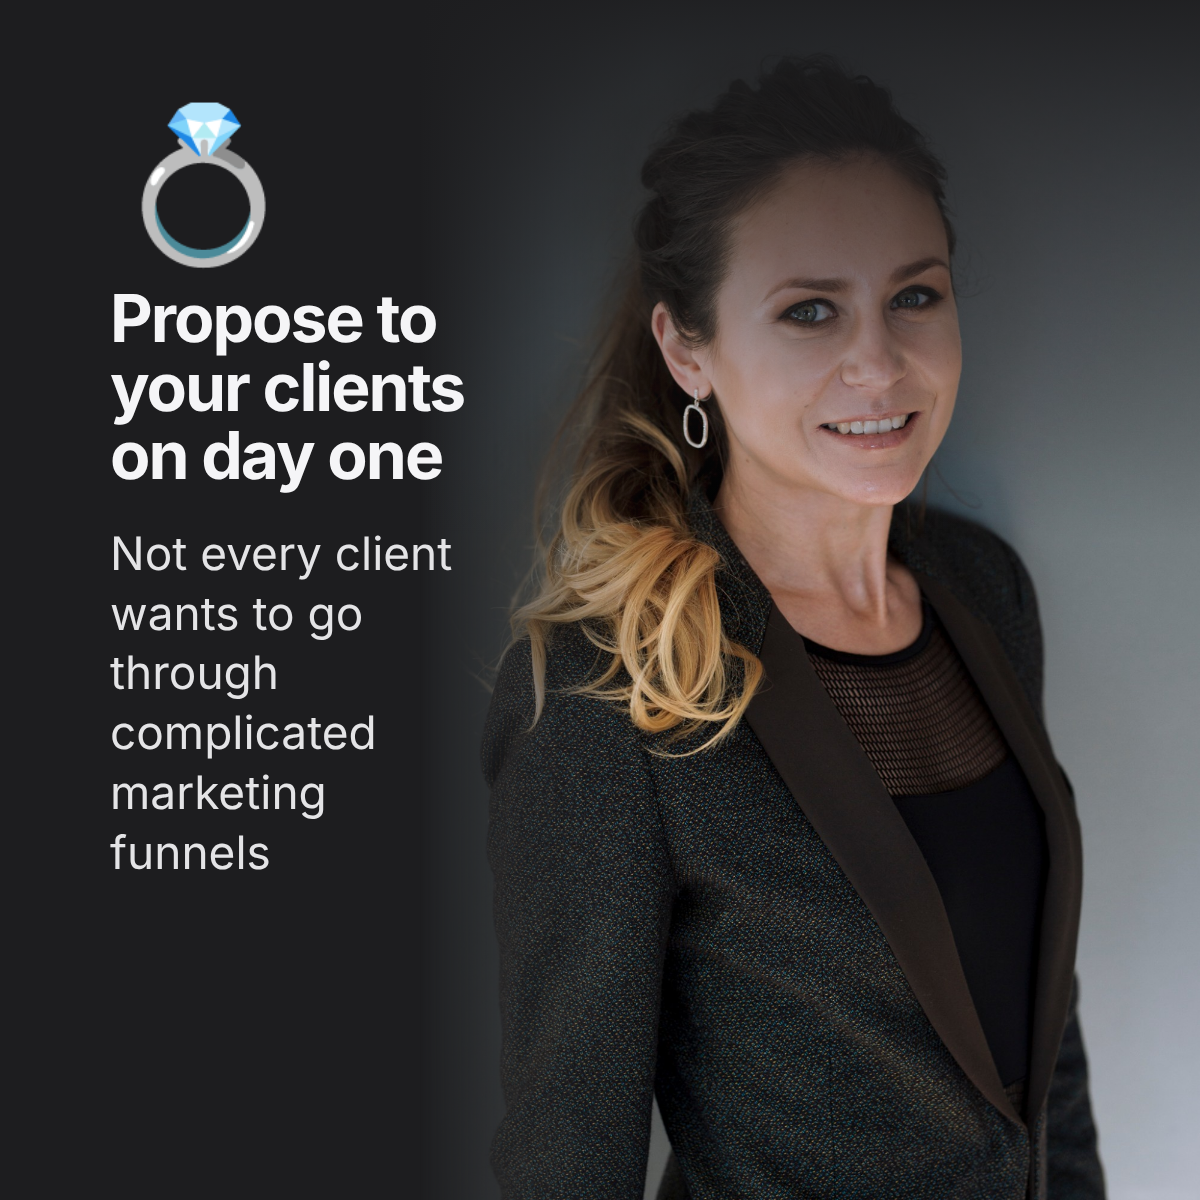
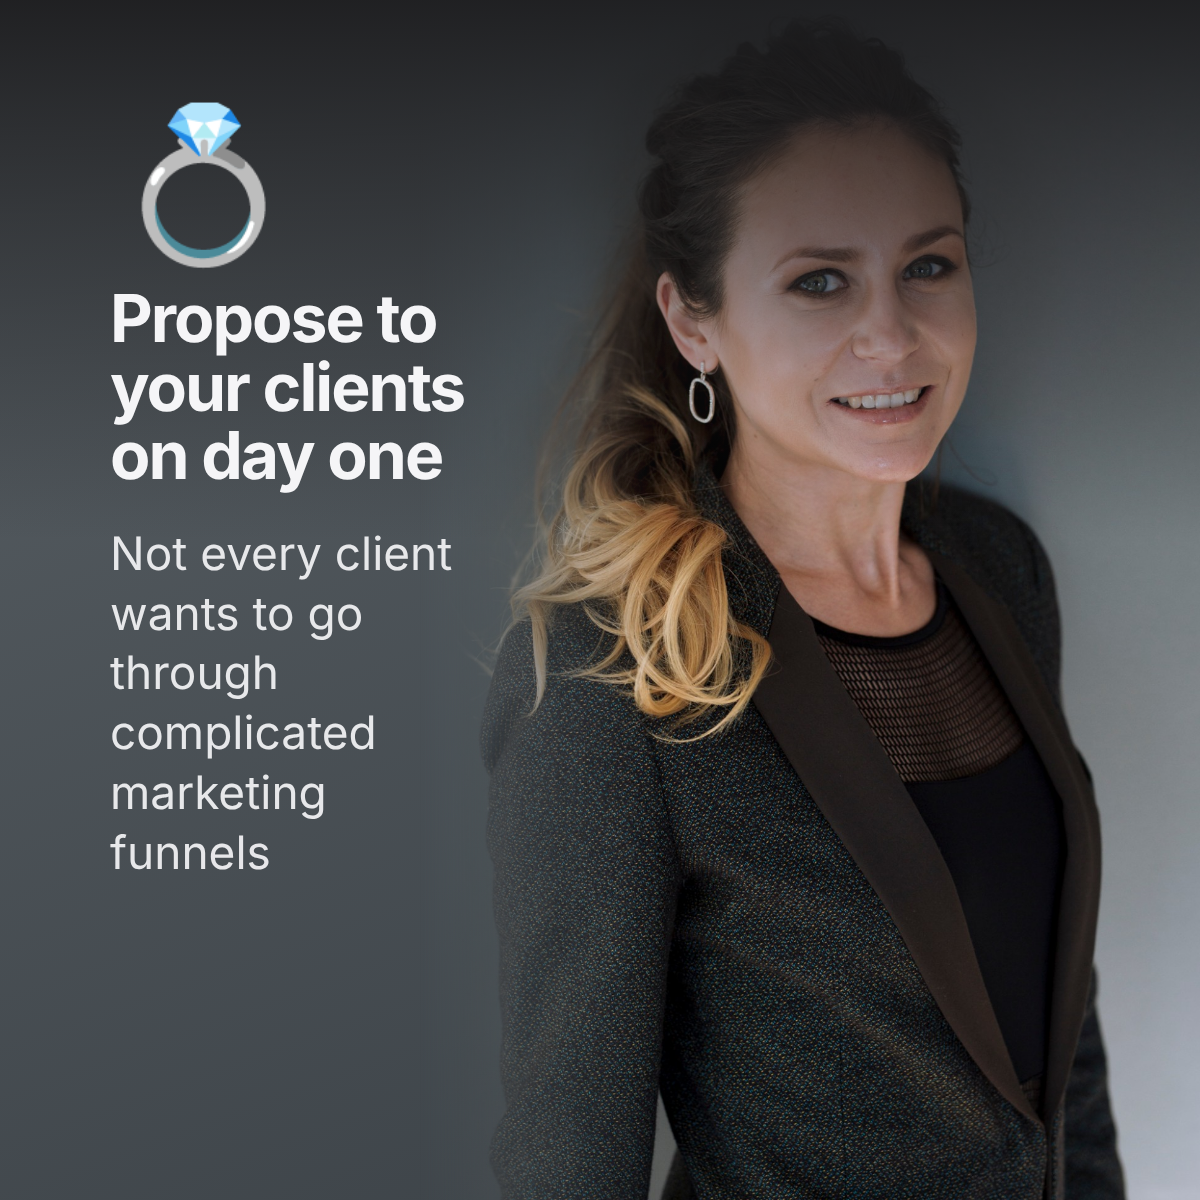
LinkedIn cover: lighter background, head raised, photo fills bottom edge
Claude-Session: https://claude.ai/code/session_01BfJAaEZY2EfD7nu2Y1Q1pB

diff --git a/brand/zimols/render.js b/brand/zimols/render.js
@@ -57,10 +57,11 @@ function slide(s) {
     const sh = s.photoShift || 0;
     const fade = s.textTop ? ';-webkit-mask-image:linear-gradient(to bottom,transparent 0%,#000 30%);mask-image:linear-gradient(to bottom,transparent 0%,#000 30%)' : '';
     const box = s.photoBox;
-    const imgStyle = box ? ` style="left:${box.left}px;top:0px;width:${box.width}px;height:${box.height}px;object-fit:cover;-webkit-mask-image:linear-gradient(to right,transparent 0%,#000 30%);mask-image:linear-gradient(to right,transparent 0%,#000 30%)"` : (sh ? ` style="top:${sh}px;height:${F.h - sh}px${fade}"` : '');
+    const imgStyle = box ? ` style="left:${box.left}px;top:${box.top || 0}px;width:${box.width}px;height:${box.height}px;object-fit:cover;-webkit-mask-image:linear-gradient(to right,transparent 0%,#000 30%);mask-image:linear-gradient(to right,transparent 0%,#000 30%)"` : (sh ? ` style="top:${sh}px;height:${F.h - sh}px${fade}"` : '');
     const top = s.textTop ? `<div class="shade" style="background:linear-gradient(to bottom,rgba(29,29,31,.95) 0%,rgba(29,29,31,0) 45%)"></div>` : '<div class="shade"></div>';
     const padStyle = s.photoBox ? ' style="top:110px;bottom:auto;right:auto;width:360px"' : (s.textTop ? ' style="top:100px;bottom:auto"' : '');
-    return `<div class="s bg-ink"><img class="photo"${imgStyle} src="${img}">${top}
+    const cardBg = s.coverBg ? ` style="background:${s.coverBg}"` : '';
+    return `<div class="s bg-ink"${cardBg}><img class="photo"${imgStyle} src="${img}">${top}
       <div class="pad"${padStyle}>${s.emoji ? `<div class="emoji">${s.emoji}</div>` : ''}<div class="display" style="font-size:${s.headlineSize || 104}px">${s.headline.join('<br>')}</div>${s.sub ? `<div class="sub">${s.sub}</div>` : ''}</div></div>`;
   }
   if (s.type === 'list') {
